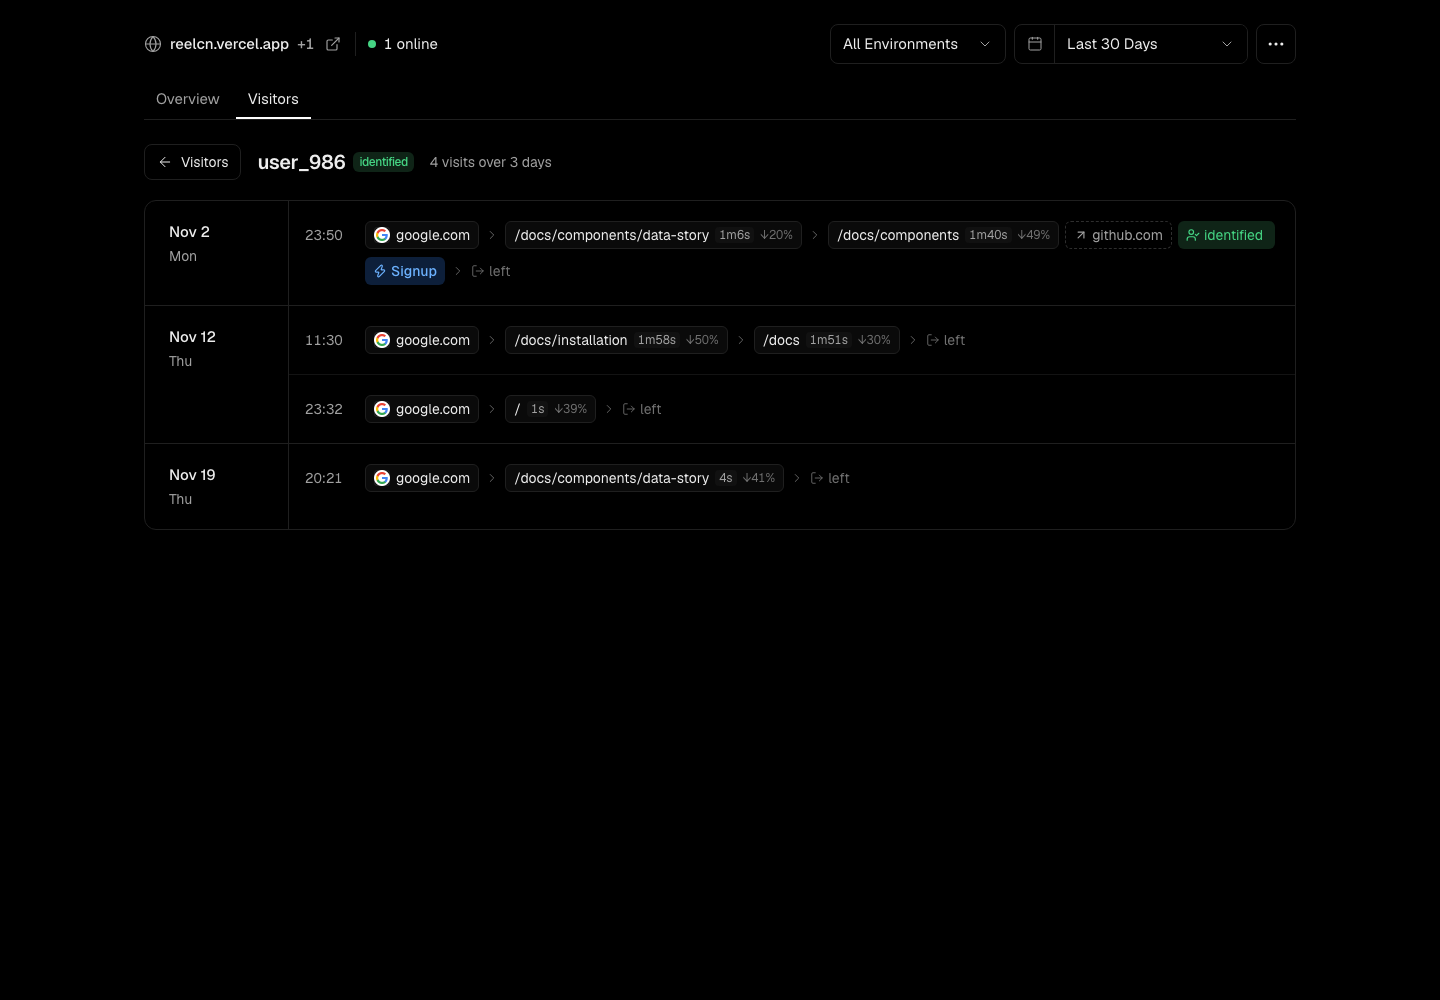
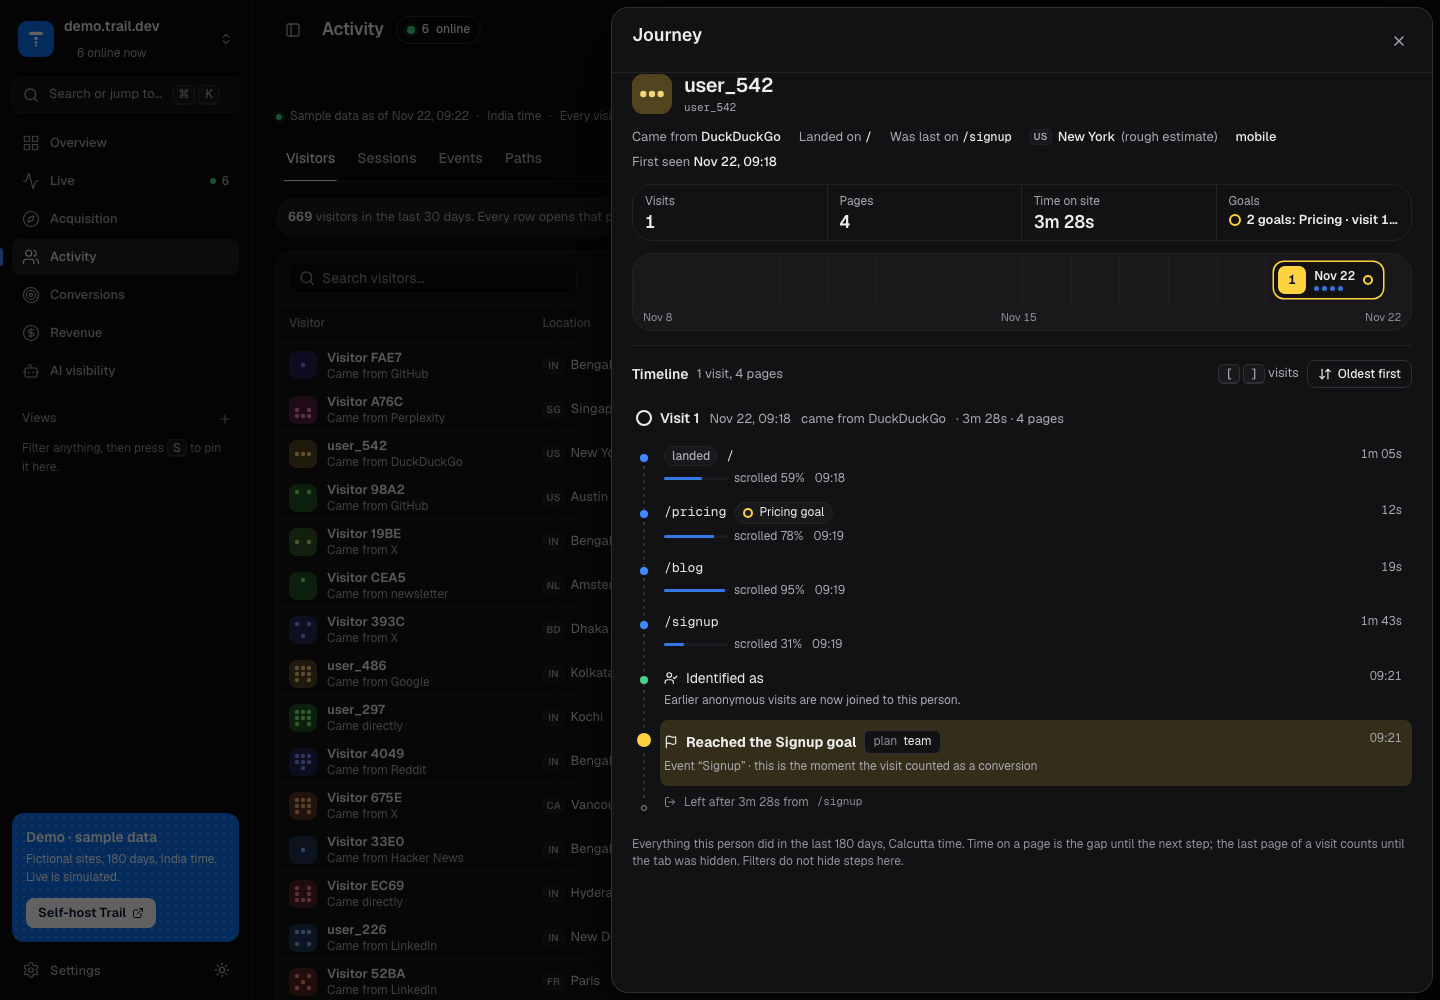
docs: README and MCP docs match dashboard v3, AI visibility and init; new screenshots; Dashboard v3 changelog entry; redirect /docs/changelog.xml

diff --git a/site/src/lib/changelog.ts b/site/src/lib/changelog.ts
@@ -8,6 +8,13 @@ export const changes = [
       'An AI visibility screen with a funnel, Crawlers and Agents tabs. AI browsing agents are recognised from the script’s own requests, marked Verified or Claimed, and left out of visitor numbers unless you count them. npx trail-analytics init adds crawler capture and a first-party /t/* proxy with signed edge location to Next.js and Astro.',
   },
   {
+    id: 'dashboard-v3',
+    title: 'Dashboard v3',
+    date: '2026-11-21',
+    summary:
+      'A new dashboard with a sidebar: Overview with what changed, Live with a globe, Acquisition, Activity, Conversions (goals and funnels), Revenue from Purchase events, and Settings with API tokens, share links and AI assistants. The whole state lives in the URL, old links redirect, and the MCP endpoint grows to 25 tools. The trail-analytics npm package is 0.2.0.',
+  },
+  {
     id: 'v2',
     title: 'Trail v2',
     date: '2026-11-20',

diff --git a/README.md b/README.md
@@ -10,7 +10,7 @@
 
 # Trail
 
-Self-hosted web analytics for your own sites: the smallest tracker that still shows the whole visitor journey, private by default until your visitor says yes, on one self-hosted binary. Go, SQLite, an embedded React dashboard, and tracker files under 2 KB gzipped.
+Self-hosted web analytics for your own sites: the smallest tracker that still shows the whole visitor journey, private by default until your visitor says yes, on one self-hosted binary. It also shows how AI crawlers, assistants and browsing agents reach your site. Go, SQLite, an embedded React dashboard, and tracker files under 2 KB gzipped.
 
 **[Docs](https://trail.karanjot.dev/docs/quickstart/)** · [Quickstart](https://trail.karanjot.dev/docs/quickstart/) · [Live demo](https://trail.karanjot.dev/demo)
 
@@ -20,17 +20,24 @@ Follow any visitor across visits and devices — where they came from, every pag
 
 ![Visitor journey](docs/journey.png)
 
+See which AI systems crawl your pages, fetch them to answer someone, and send people who convert:
+
+![AI visibility](docs/ai-visibility.png)
+
 ## Features
 
+- Overview with "what changed", Live (globe and event stream), Acquisition (sources, AI referrals, campaigns, landing pages), Activity (visitors, sessions, events, paths), Conversions (goals and funnels) and Revenue
 - Pageviews (including SPA `pushState`, `replaceState` and back/forward), referrers, UTM, country, device, browser, OS
-- Custom events, named clicks (`data-trail="Signup"`), `identify` / `reset`, outbound clicks
+- Custom events, named clicks (`data-trail="Signup"`), `identify` / `reset`, outbound clicks, `Purchase` revenue
 - Opt-in web vitals, rage clicks, form submits and JS errors (`t.x.js`, loaded only when asked for)
 - Per-visitor journey: source, pages in order, time on page, scroll depth, return visits, signup point
-- Goals with conversion rates, and a delivery health check
+- AI visibility: crawler requests, answer fetches, AI referrals and conversions, plus AI browsing agents marked Verified or Claimed
+- `npx trail-analytics init` sets up Next.js or Astro: first-party `/t/*` proxy, edge location and AI crawler capture
+- Country location out of the box (embedded DB-IP Lite), city with your own `.mmdb`
 - Three privacy modes; private until consent by default; Do Not Track and GPC honoured
-- A read API with bearer tokens and an MCP endpoint for AI assistants
-- Honest bounce rate, live "online" count, previous-period comparison
-- Multiple sites, one password, no raw IPs stored
+- A read API with scoped bearer tokens, share links, and an MCP endpoint with 25 tools for AI assistants
+- Honest bounce rate, previous-period comparison, the whole dashboard state in the URL
+- Multiple sites, one password, no raw IPs stored, trusted-proxy aware client IPs
 
 ## Quick start
 
@@ -70,6 +77,7 @@ Open the host in a browser and log in with `TRAIL_PASSWORD`. Run Trail behind HT
 | `TRAIL_GEO_DB` | unset | Path to your own City `.mmdb` (for example DB-IP Lite City) for region and city. Without it, the built-in database gives country only |
 | `TRAIL_SECRET` | random per start | Signs session cookies (32+ chars). Set it so logins survive restarts |
 | `TRAIL_API_TOKENS` | unset | `name:token:scope,...` for the read API and MCP. Scope `read` or `write`; tokens of 24+ chars |
+| `TRAIL_AGENT_LISTS` | unset | `off` stops downloading the published AI agent IP lists and signature keys; agents are then recognised by user agent only |
 | `TRAIL_DEMO` | unset | `1` serves a read-only demo with generated data at `/demo` |
 
 ## Add a site
@@ -130,6 +138,14 @@ import { Analytics } from 'trail-analytics/next';
 ```
 
 It injects the script, computes route patterns like `/blog/[slug]`, and exports typed `track`, `identify`, `reset`, `pageview`. See [packages/trail-analytics](packages/trail-analytics). The `/_t/*` rewrite above is still required.
+
+### Next.js and Astro in one command
+
+```sh
+npx trail-analytics@latest init --url https://<trail-host> --site mysite --token <crawl-token>
+```
+
+It shows a diff and asks before writing. It adds a `proxy.ts` / `middleware.ts` (Next.js) or the `trail()` integration (Astro) that serves the script and beacons first-party at `/t/*` with your host's edge location, reports AI crawler requests, and puts `<Analytics />` in your root layout. Get the crawl token from **AI visibility → Unlock AI crawlers**. Details: [packages/trail-analytics](packages/trail-analytics#track-ai-crawlers).
 
 ### Tracker API
 
@@ -227,7 +243,7 @@ Every tracker file must stay at or under 2,048 B gzipped; CI fails otherwise. Re
 
 ## API and MCP
 
-Give scripts and AI assistants read access with a token:
+Create a token in **Settings → API tokens** (scopes `read`, `notes`, `write`, `crawl`, optionally limited to one site), or set them in the environment:
 
 ```sh
 TRAIL_API_TOKENS="laptop:$(openssl rand -hex 24):read"
@@ -240,9 +256,9 @@ curl -H "Authorization: Bearer $TOKEN" "https://stats.example.com/api/v1/stats?s
 # {"visitors":1,"pageviews":1,"bounce":1,"prev":{"visitors":0,"pageviews":0,"bounce":0},"online":1}
 ```
 
-Routes: `sites`, `stats`, `series`, `breakdown`, `visitors`, `journey`, `goals`, `goals/report`, `delivery`. Creating or deleting goals and sites needs a `write` token. 300 requests per minute per token.
+Every dashboard report is a route: `stats`, `series`, `breakdown`, `changes`, `live`, `visitors`, `sessions`, `journey`, `events`, `paths`, `campaigns`, `ai-referrals`, `goals`, `funnels`, `revenue`, `heatmap`, `crawlers`, `ai-visibility`, `agents` and more. Changes need a `write` token (chart notes: `notes`). 300 requests per minute per token.
 
-MCP: `POST /mcp` speaks the Model Context Protocol over streamable HTTP, with tools `list_sites`, `get_stats`, `get_series`, `get_breakdown`, `list_visitors`, `get_journey` and `goal_report`.
+MCP: `POST /mcp` speaks the Model Context Protocol over streamable HTTP, with 25 tools: `list_sites`, `what_changed`, `get_stats`, `get_series`, `get_breakdown`, `get_live`, `list_visitors`, `get_sessions`, `get_journey`, `goal_report`, `get_funnel`, `get_revenue`, `get_ai_visibility`, `get_crawlers`, `get_agents` and more. All read, except `add_note`.
 
 ```sh
 claude mcp add --transport http trail https://stats.example.com/mcp \

diff --git a/site/docs/api/mcp.md b/site/docs/api/mcp.md
@@ -7,7 +7,7 @@ description: Let Claude Code, Cursor, VS Code and other assistants read your Tra
 
 Trail serves a [Model Context Protocol](https://modelcontextprotocol.io) endpoint at `POST /mcp`, over streamable HTTP. Any MCP client can connect with a [read token](/api/tokens) and ask about your sites in plain language: "which pages brought signups this week?", "show me the journey of the last identified visitor".
 
-The seven tools only read. They cannot change goals, sites or settings.
+Every tool but `add_note` only reads. No tool can change goals, sites or settings.
 
 ## Connect a client
 
@@ -49,15 +49,35 @@ Cursor reads this from `~/.cursor/mcp.json`, and VS Code from `.vscode/mcp.json`
 
 ## Tools
 
-| Tool | Arguments | Returns |
-|---|---|---|
-| `list_sites` | none | Site ids and domains. Call this first |
-| `get_stats` | `site`, `range?`, `env?`, `filters?` | Visitors, pageviews, bounce rate, the previous period, and visitors online |
-| `get_series` | `site`, `metric`, `range?` | `visitors`, `pageviews` or `bounce` over time |
-| `get_breakdown` | `site`, `dim`, `range?`, `limit?` | Top values of one dimension |
-| `list_visitors` | `site`, `range?`, `q?`, `limit?` | People with first and last seen, visits, country, device and source |
-| `get_journey` | `site`, `person` | One person's sessions and every step |
-| `goal_report` | `site`, `range?` | Conversions and rate per goal, with the previous period |
+| Tool | Returns |
+|---|---|
+| `list_sites` | Site ids and domains. Call this first |
+| `what_changed` | The few biggest changes against the comparison period. A good second call |
+| `get_stats` | Visitors, pageviews, sessions, duration, bounce, conversions and revenue, with the previous period and visitors online |
+| `get_series` | One metric over time, by hour or day, with the previous period |
+| `get_breakdown` | Top values of one dimension (pages, sources, channels, countries, devices, events) |
+| `get_live` | Active visitors, countries, sources, pages and the latest events right now |
+| `get_heatmap` | Visitors by weekday and hour over the last four weeks |
+| `list_visitors` | People with first and last seen, visits, location, device and source |
+| `get_sessions` | Sessions with duration, pages, entry and exit, source, goals and revenue |
+| `get_journey` | One person's sessions and every step |
+| `goal_report` | Conversions, converting visitors and rate per goal, with the previous period |
+| `get_goal` | One goal in detail: series, first-touch sources, landing pages and converter paths |
+| `list_funnels` | The site's funnel definitions |
+| `get_funnel` | People reaching each funnel step, step conversion and the biggest drop |
+| `get_funnel_dropoff` | People who reached a step and not the next one |
+| `get_campaigns` | UTM campaigns with visitors, sessions, bounce, conversion and revenue |
+| `list_events` | Custom and outbound events with counts, people and properties |
+| `get_event` | One event in detail: series, property values and the latest occurrences |
+| `get_revenue` | Net revenue, purchases, buyers, average order and the latest purchases |
+| `get_ai_referrals` | AI assistants that sent visitors |
+| `get_ai_visibility` | The AI visibility funnel: crawled, fetched for an answer, visited from AI assistants and converted |
+| `get_crawlers` | AI crawler requests by category, provider, crawler and page |
+| `get_agents` | AI browsing agents that ran the script, verified or claimed |
+| `list_notes` | Chart notes (deploys, campaigns, press) in the range |
+| `add_note` | Adds a chart note. Needs a `notes` or `write` token |
+
+Every tool takes `site` (except `list_sites`); most also take `range`, `env` and `filters`. `tools/list` returns each tool's full input schema.
 
 `range` is `24h`, `7d`, `30d`, `90d` or `12mo` (default `7d`), or `{"from": ms, "to": ms}`. `env` defaults to `production`. `dim` and `filters` use the same dimensions as the [read API](/api/read-api#common-parameters).
 

diff --git a/site/docs/changelog.md b/site/docs/changelog.md
@@ -13,6 +13,12 @@ Subscribe with the [RSS feed](/changelog.xml).
 
 An AI visibility screen with a funnel, Crawlers and Agents tabs. AI browsing agents are recognised from the script's own requests, marked Verified or Claimed, and left out of visitor numbers unless you count them. `npx trail-analytics init` adds crawler capture and a first-party `/t/*` proxy with signed edge location to Next.js and Astro. Location labels its accuracy, Cloudflare location headers are trusted from Cloudflare only, and `TRAIL_AGENT_LISTS=off` turns off the list downloads.
 
+## Dashboard v3 {#dashboard-v3}
+
+<time datetime="2026-11-21">2026-11-21</time>
+
+A new dashboard with a sidebar: Overview with what changed, Live with a globe, Acquisition, Activity (visitors, sessions, events, paths), Conversions (goals and funnels), Revenue from `Purchase` events, and Settings with API tokens, share links and AI assistants. The whole state lives in the URL, old links redirect, and the MCP endpoint grows to 25 tools. The `trail-analytics` npm package is 0.2.0.
+
 ## Trail v2 {#v2}
 
 <time datetime="2026-11-20">2026-11-20</time>
